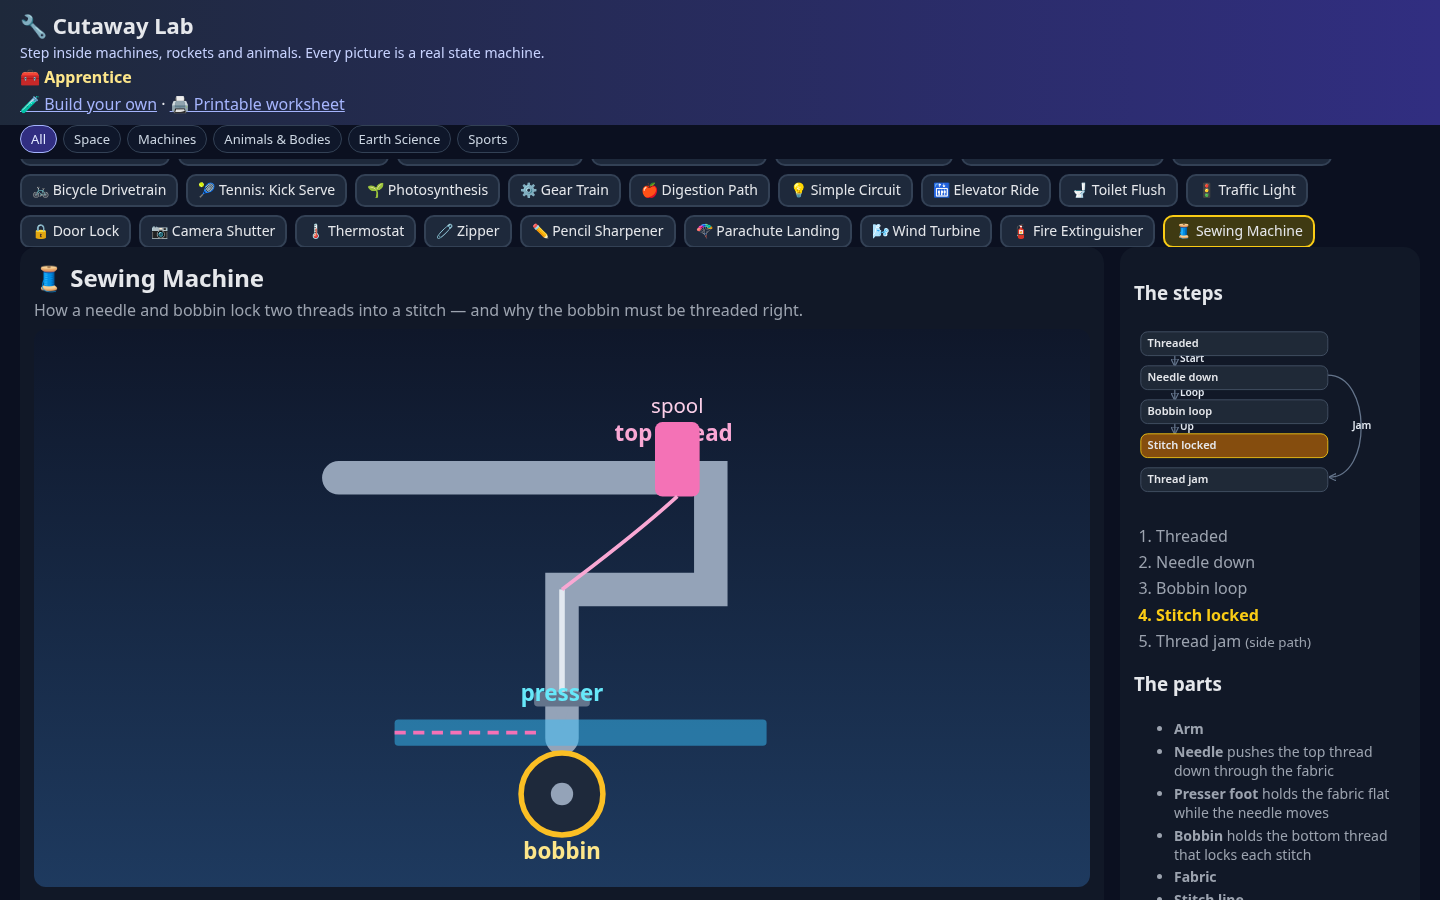
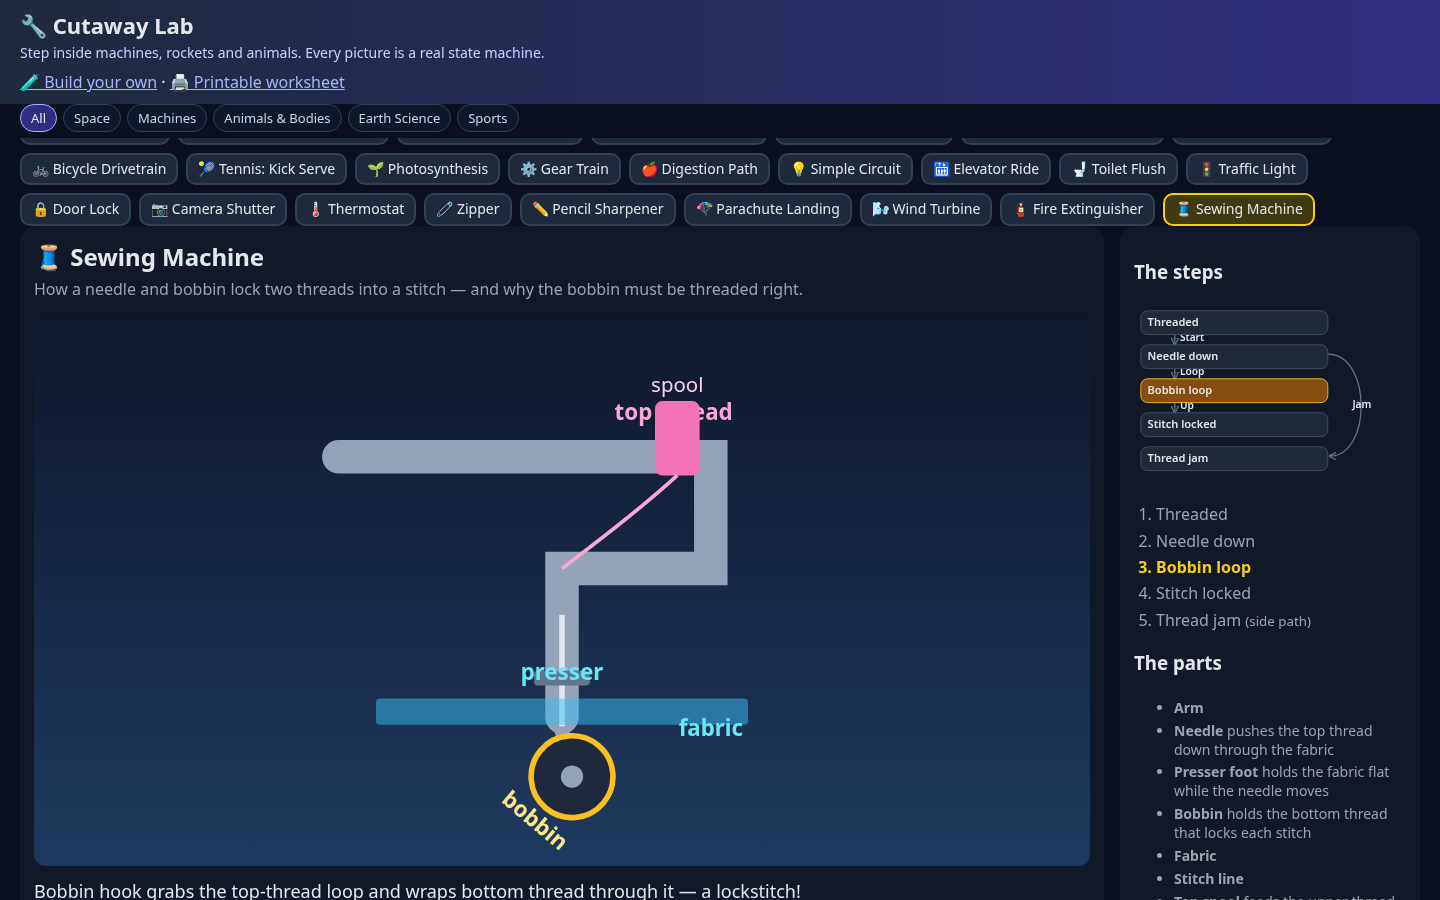
v1.0: sewing fabric caption

Changed region(s): [[0.0, 0.0622, 1.0, 1.0], [0.0, 0.7156, 0.7812, 1.0], [0.2188, 0.4044, 0.5312, 0.6844]]

diff --git a/machines/sewing.js b/machines/sewing.js
@@ -17,6 +17,8 @@ export default {
       svg: '<circle cx="200" cy="250" r="22" fill="#1e293b" stroke="#fbbf24" stroke-width="3"/><circle cx="200" cy="250" r="6" fill="#94a3b8"/><text x="200" y="285" text-anchor="middle" fill="#fde68a" font-size="12" font-weight="700">bobbin</text>', explode: [0, 40] },
     { id: 'fabric', label: 'Fabric',
       svg: '<rect x="100" y="210" width="200" height="14" rx="2" fill="#38bdf8" opacity=".5"/>' },
+    { id: 'lblFabric', label: 'Fabric label',
+      svg: '<text x="280" y="230" text-anchor="middle" fill="#67e8f9" font-size="12" font-weight="700">fabric</text>' },
     { id: 'stitch', label: 'Stitch line',
       svg: '<g stroke="#f472b6" stroke-width="2" stroke-dasharray="6 4"><path d="M110 217 H190"/></g>', pose: { opacity: 0 } },
     { id: 'spool', label: 'Top spool', job: 'feeds the upper thread to the needle',
